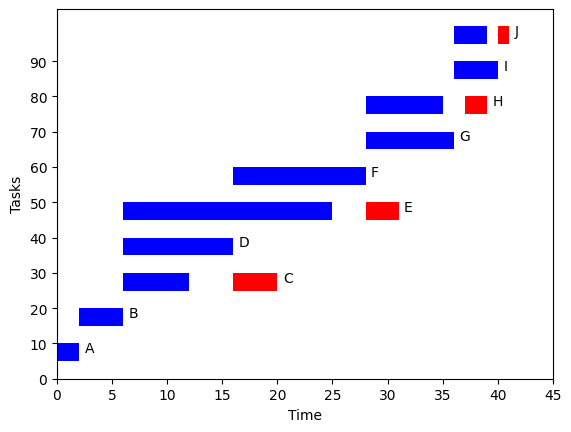
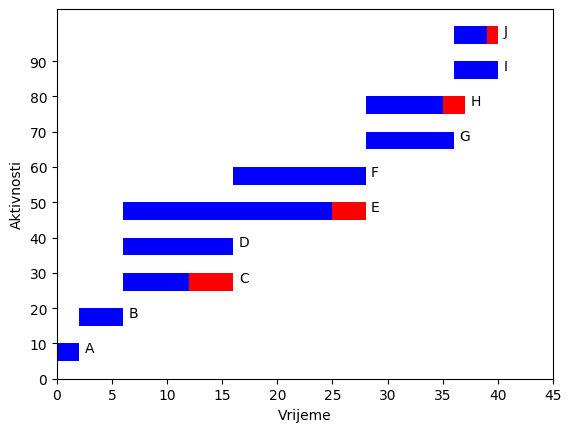
Popravljene neke stvari

diff --git a/GUI/mainWindow.py b/GUI/mainWindow.py
@@ -44,7 +44,8 @@ class Ui_mainWindow(object):
         font.setPointSize(12)
         self.doubleSpinBox.setFont(font)
         self.doubleSpinBox.setDecimals(4)
-        self.doubleSpinBox.setMaximum(1.0)
+        # Maksimalna vrijednost nije 1 jer je norm.ppf(1)=Inf
+        self.doubleSpinBox.setMaximum(0.9999)
         self.doubleSpinBox.setSingleStep(0.1)
         self.doubleSpinBox.setObjectName("doubleSpinBox")
         self.gridLayout.addWidget(self.doubleSpinBox, 4, 1, 1, 1)
@@ -198,6 +199,9 @@ class Ui_mainWindow(object):
         self.actionAbout.setText(_translate("mainWindow", "About"))
 
     def on_click(self):
+        """
+        Funkcija se poziva kada se klikne dugme "Izračunaj"
+        """
         # dobavljanje teksta iz text box-a
         # očekivani unos je formata: naziv,preduvjet1 preduvjet2 preduvjet3,optimisticno,modalno,pesimisticno
         mytext = self.textBox.toPlainText()
@@ -210,9 +214,6 @@ class Ui_mainWindow(object):
         userInput = list(reader)
 
         self.createPert(userInput)
-        # ovo se moze pretvoriti i u json objekat
-        # json_data = json.dumps(list(reader))
-        # print(json_data)
 
     def validate(self, naziv, preduvjeti):
         if not isinstance(naziv, str):
@@ -221,6 +222,11 @@ class Ui_mainWindow(object):
             raise ValueError("Preduvjeti trebaju biti stringovi odvjeni znakom razmaka!")
 
     def createPert(self, userInput: list):
+        """
+        Kreira pert klasu, dodaje unesene aktivnosti i prikazuje ih na GUIu.
+
+        :param userInput: Ono što je korisnik unio u text area.
+        """
         g = Pert()
         correctUserInput = True
         for element in userInput:
@@ -243,29 +249,29 @@ class Ui_mainWindow(object):
                 # kreiranje i dodavanje aktivnosti
                 a = Aktivnost(naziv, preduvjeti, optimisticno, modalno, pesimisticno)
                 g.dodajAktivnost(a)
-                # self.labelRezultat.setText("OK")
             except Exception as e:
                 correctUserInput = False
                 self.labelRezultat.setStyleSheet("QLabel { color: rgba(255,0,0); }")
                 self.labelRezultat.setText("Error: " + str(e))
-
+        # Samo ako su uneseno podaci koretni može se dalje raditi (računati)
         if correctUserInput:
+            # ako su nakon pogrešnog unosa, unesene koretne vrijednosti boja ne treba biti crvena
             self.labelRezultat.setStyleSheet("")
             try:
                 g.azurirajGraf()
-                # todo ovdje prikazati i jedan i drugi graf
+
+                #kreiranje i prikaz grafova
                 self.createGanttChart(g)
                 pixmap1 = QPixmap('gantt.png')
                 self.labelSlikaGrafa.setPixmap(pixmap1)
-
                 self.createPertChart(g)
                 pixmap2 = QPixmap('pert.png')
                 # pixmap = pixmap.scaled(400, 400, QtCore.Qt.KeepAspectRatio)
                 self.labelSlikaGrafa2.setPixmap(pixmap2)
 
+                #prikaz ostalih vrijednosti
                 vjerovatnoca = self.doubleSpinBox.value()
                 period = self.zadaniPeriod.value()
-
                 rezultat = self.createResultString(g, vjerovatnoca, period)
 
                 self.labelRezultat.setText(rezultat)
@@ -274,7 +280,14 @@ class Ui_mainWindow(object):
                 self.labelRezultat.setText("Error: " + str(e))
 
     def createResultString(self, g: Pert, vjerovatnoca, period) -> str:
-        rezultat = "Kritični putevi:\n" + g.dajStirngKriticnihPuteva()
+        """
+        Vraća string izračunatih vrijednosti.
+        """
+        rezultat = str(g)+"\n"
+        # rezultat += "Kritični putevi:\n" + g.dajStirngKriticnihPuteva()+"\n"
+        rezultat += "Svi putevi:\n" + g.dajStringSvihPuteva()+"\n"
+        rezultat += "Procijenjeno trajanje projekta za datu vjerovatnocu je: " + str(
+            round(g.izracunajProcjenuTrajanjaProjekta(vjerovatnoca), 4)) + "\n"
         rezultat += "Najduže procijenjeno trajanje projekta za datu vjerovatnocu je: " + str(
             round(g.izracunajNajduzuProcjenuTrajanjaProjekta(vjerovatnoca), 4)) + "\n"
         rezultat += "Vjerovatnoća završetka projekta za zadani period je: " + str(
@@ -283,38 +296,44 @@ class Ui_mainWindow(object):
         return rezultat
 
     def createGanttChart(self, graf: Pert):
+        """
+        Poziva kreiranje gantograma.
+        """
         # ove varijable su tipa dict {naziv_aktivnosti:nesto}
-        startTimes = {}
-        completionTimes = {}
-        duration = {}
-        slackTimes = {}
+        vremenaPocetka = {}
+        vremenaZavrsetka = {}
+        trajanja = {}
+        rezerve = {}
         for aktivnost in graf.aktivnosti:
             # fiktivne aktivnosti nisu bitne i one se ne prikazuju
             if aktivnost.naziv == "fiktivna":
                 continue
-            startTimes[aktivnost.naziv] = round(float(aktivnost.pocetniCvor.najranijeVrijeme), 2)
-            completionTimes[aktivnost.naziv] = round(float(aktivnost.krajnjiCvor.najkasnijeVrijeme), 2)
-            duration[aktivnost.naziv] = round(float(aktivnost.trajannje), 2)
-            slackTimes[aktivnost.naziv] = round(float(aktivnost.rezervaAktivnosti), 2)
+            vremenaPocetka[aktivnost.naziv] = round(float(aktivnost.pocetniCvor.najranijeVrijeme), 2)
+            vremenaZavrsetka[aktivnost.naziv] = round(float(aktivnost.krajnjiCvor.najkasnijeVrijeme), 2)
+            trajanja[aktivnost.naziv] = round(float(aktivnost.trajannje), 2)
+            rezerve[aktivnost.naziv] = round(float(aktivnost.rezervaAktivnosti), 2)
 
-        createGanttChart(startTimes, completionTimes, duration, slackTimes)
+        createGanttChart(vremenaPocetka, vremenaZavrsetka, trajanja, rezerve)
 
     def createPertChart(self, graf: Pert):
+        """
+        Poziva kreiranje pert dijagrama
+        """
         # ove varijable su tipa dict {broj_cvora:nesto}
-        startTimes = {}
-        completionTimes = {}
-        slackTimes = {}
-        connections = {}
+        najranijaVremena = {}
+        najkasnijaVremena = {}
+        rezerveCvorova = {}
+        veze = {}
         for cvor in graf.cvorovi:
-            startTimes[cvor.brojCvora] = round(float(cvor.najranijeVrijeme), 2)
-            completionTimes[cvor.brojCvora] = round(float(cvor.najkasnijeVrijeme), 2)
-            slackTimes[cvor.brojCvora] = round(float(cvor.rezerva), 2)
+            najranijaVremena[cvor.brojCvora] = round(float(cvor.najranijeVrijeme), 2)
+            najkasnijaVremena[cvor.brojCvora] = round(float(cvor.najkasnijeVrijeme), 2)
+            rezerveCvorova[cvor.brojCvora] = round(float(cvor.rezerva), 2)
             lista = []
             for aktivnost in cvor.izlazneAktivnosti:
-                lista.append(aktivnost.krajnjiCvor.brojCvora)
-            connections[cvor.brojCvora] = lista
+                lista.append((aktivnost.krajnjiCvor.brojCvora, aktivnost.naziv))
+            veze[cvor.brojCvora] = lista
 
-        createPertChart(connections, startTimes, completionTimes, slackTimes)
+        createPertChart(veze, najranijaVremena, najkasnijaVremena, rezerveCvorova)
 
 
 if __name__ == "__main__":

diff --git a/charts.py b/charts.py
@@ -3,21 +3,33 @@ import networkx as nx
 import matplotlib.pyplot as plt
 
 
-def createPertChart(graph, startTimes, completionTimes, slackTimes):
+def createPertChart(veze, najranijaVremena, najkasnijaVremena, rezerveCvorova):
+    """
+    Kreira pert graf i spašava ga kao sliku 'pert.png'.
+
+    :param veze: Dictionary oblika {pocetniCvor:(krajnjiCvor,nazivAktivnostiKojaIhPovezuje)}
+    :param najranijaVremena: Dictionary oblika {cvor:najranijeVrijeme}
+    :param najkasnijaVremena: Dictionary oblika {cvor:najkasnijeVrijeme}
+    :param rezerveCvorova: Dictionary oblika {cvor:rezerva}
+    """
     g = nx.DiGraph()
     labelsDict = {}
-    for parent in graph:
-        for child in graph[parent]:
-            # parentStr = 'TE={} TL={} R={}'.format(startTimes[parent], completionTimes[parent], slackTimes[parent])
-            # childStr = 'TE={} TL={} R={}'.format(startTimes[child], completionTimes[child], slackTimes[child])
-            parentStr = '{}/{}/{}'.format(startTimes[parent], completionTimes[parent], slackTimes[parent])
-            childStr = '{}/{}/{}'.format(startTimes[child], completionTimes[child], slackTimes[child])
-            labelsDict[parent] = parentStr
-            labelsDict[child] = childStr
-            g.add_edge(parent, child, color='black')
+    edgeLabels = {}
+    for pocetniCvor in veze:
+        for par in veze[pocetniCvor]:
+            krajnjiCvor = par[0]
+            parentStr = '{}|{}|{}'.format(najranijaVremena[pocetniCvor], najkasnijaVremena[pocetniCvor], rezerveCvorova[pocetniCvor])
+            childStr = '{}|{}|{}'.format(najranijaVremena[krajnjiCvor], najkasnijaVremena[krajnjiCvor], rezerveCvorova[krajnjiCvor])
+            labelsDict[pocetniCvor] = parentStr
+            labelsDict[krajnjiCvor] = childStr
+            g.add_edge(pocetniCvor, krajnjiCvor, color='black')
+            if par[1]!="fiktivna":
+                edgeLabels[pocetniCvor, krajnjiCvor] = par[1]
+            else:
+                edgeLabels[pocetniCvor, krajnjiCvor] = '0'
     # pos = nx.shell_layout(g)
     pos = nx.planar_layout(g)
-    for task in startTimes:
+    for task in najranijaVremena:
         x, y = pos[task]
         plt.text(x, y + 0.1, s=labelsDict[task], bbox=dict(facecolor='red', alpha=0.5), horizontalalignment='center')
     print(nx.info(g))
@@ -26,27 +38,42 @@ def createPertChart(graph, startTimes, completionTimes, slackTimes):
     colors = [g[u][v]['color'] for u, v in edges]
 
     nx.draw(g, pos, with_labels=True, edge_color=colors)
+    nx.draw_networkx_edge_labels(g, pos, edge_labels=edgeLabels, font_size=8)
     plt.savefig('pert.png', bbox_inches='tight')
     plt.show()
 
 
-def createGanttChart(startTimes, completionTimes, durations, slackTimes):
+def createGanttChart(vremenaPocetka, vremenaZavrsetka, trajanja, rezerve):
+    """
+    Kreira gantogram i spašava ga kao sliku 'gantt.png'.
+
+    :param vremenaPocetka: Dictionary oblika {nazivAktivnosti:vrijemePocetka}
+    :param vremenaZavrsetka: Dictionary oblika {nazivAktivnosti:vrijemeZavrsetka}
+    :param trajanja: Dictionary oblika {nazivAktivnosti:trajanje}
+    :param rezerve: Dictionary oblika {nazivAktivnosti:rezerva}
+    """
     fig, ax = plt.subplots()
-    y_values = sorted(startTimes.keys(), key=lambda x: startTimes[x])
+    # nazivi aktivnosti sortirani prema vremenu početka, od najranijeg do najkasnijeg početka
+    y_values = sorted(vremenaPocetka.keys(), key=lambda x: vremenaPocetka[x])
     y_start = 5
     y_height = 5
-    for value in y_values:
-        ax.broken_barh([(startTimes[value], durations[value])], (y_start, y_height), facecolors='blue')
-        ax.broken_barh([(completionTimes[value], slackTimes[value])], (y_start, y_height), facecolors='red')
-        ax.text(completionTimes[value] + slackTimes[value] + 0.5, y_start + y_height / 2, value)
+    for nazivAktivnosti in y_values:
+        # plavom je prikazano trajanje aktivnosti (u tom periodu se aktivnost izvršava)
+        ax.broken_barh([(vremenaPocetka[nazivAktivnosti], trajanja[nazivAktivnosti])], (y_start, y_height), facecolors='blue')
+        # crvenom je prikazana rezerva aktivnosti
+        ax.broken_barh([(vremenaZavrsetka[nazivAktivnosti] - rezerve[nazivAktivnosti], rezerve[nazivAktivnosti])], (y_start, y_height), facecolors='red')
+        # ax.broken_barh([(vremenaZavrsetka[nazivAktivnosti], rezerve[nazivAktivnosti])], (y_start, y_height), facecolors='red')
+        # Naziv aktivnosti se prikazuje na udaljenosti 0.5 od kraja linije
+        ax.text(vremenaZavrsetka[nazivAktivnosti] + 0.5, y_start + y_height / 2, nazivAktivnosti)
+        # ax.text(vremenaZavrsetka[nazivAktivnosti] + rezerve[nazivAktivnosti] + 0.5, y_start + y_height / 2, nazivAktivnosti)
         y_start += 10
-    ax.set_xlim(0, max(completionTimes.values()) + 5)
-    ax.set_ylim(len(durations) * 10)
-    ax.set_xlabel('Time')
-    ax.set_ylabel('Tasks')
+    ax.set_xlim(0, max(vremenaZavrsetka.values()) + 5)
+    ax.set_ylim(len(trajanja) * 10)
+    ax.set_xlabel('Vrijeme')
+    ax.set_ylabel('Aktivnosti')
     i = 0
     y_ticks = []
-    while i < len(durations) * 10:
+    while i < len(trajanja) * 10:
         y_ticks.append(i)
         i += 10
     ax.set_yticks(y_ticks)

diff --git a/pert.py b/pert.py
@@ -122,9 +122,9 @@ class Cvor:
     # ispisivanje čvora
     def __str__(self) -> str:
         string = ""
-        string += "{Broj čvora: " + str(self.brojCvora) + ", "
+        string += "Broj čvora: " + str(self.brojCvora) + ", "
         string += "Najranije vrijeme: " + str(self.najranijeVrijeme) + ", "
-        string += "Najkasnije vrijeme: " + str(self.najkasnijeVrijeme) + "}"
+        string += "Najkasnije vrijeme: " + str(self.najkasnijeVrijeme) + ""
         return string
 
     # poređenje čvorova
@@ -241,8 +241,8 @@ class Aktivnost:
     # ispisivanje aktivnosti
     def __str__(self) -> str:
         string = ""
-        string += "{Naziv aktivnosti: " + str(self.naziv) + ", "
-        string += "Trajanje aktivnosti: " + str(self.trajannje) + "}"
+        string += "Naziv aktivnosti: " + str(self.naziv) + ", "
+        string += "Trajanje aktivnosti: " + str(self.trajannje) + ""
         return string
 
     # poređenje aktivnosti

diff --git a/test/unitTestovi.py b/test/unitTestovi.py
@@ -74,7 +74,7 @@ class TestoviCvora(unittest.TestCase):
 
     def testIspisivanjaCvora(self):
         string = str(self.cvor)
-        self.assertEqual(string, "{Broj čvora: 1, Najranije vrijeme: 0, Najkasnije vrijeme: 0}")
+        self.assertEqual(string, "Broj čvora: 1, Najranije vrijeme: 0, Najkasnije vrijeme: 0")
 
     def testPoredjenjaCvorovaNaJednakost(self):
         c = Cvor(1)
@@ -146,7 +146,7 @@ class TestoviAktivnosti(unittest.TestCase):
 
     def testIspisivanjaAktivnosti(self):
         string = str(self.aktivnost)
-        self.assertEqual(string, "{Naziv aktivnosti: C, Trajanje aktivnosti: 6.0}")
+        self.assertEqual(string, "Naziv aktivnosti: C, Trajanje aktivnosti: 6.0")
 
     def testPoredjenjaAktivnostiNaJednakost(self):
         a = Aktivnost("C", ["B"], 4, 5, 12)
